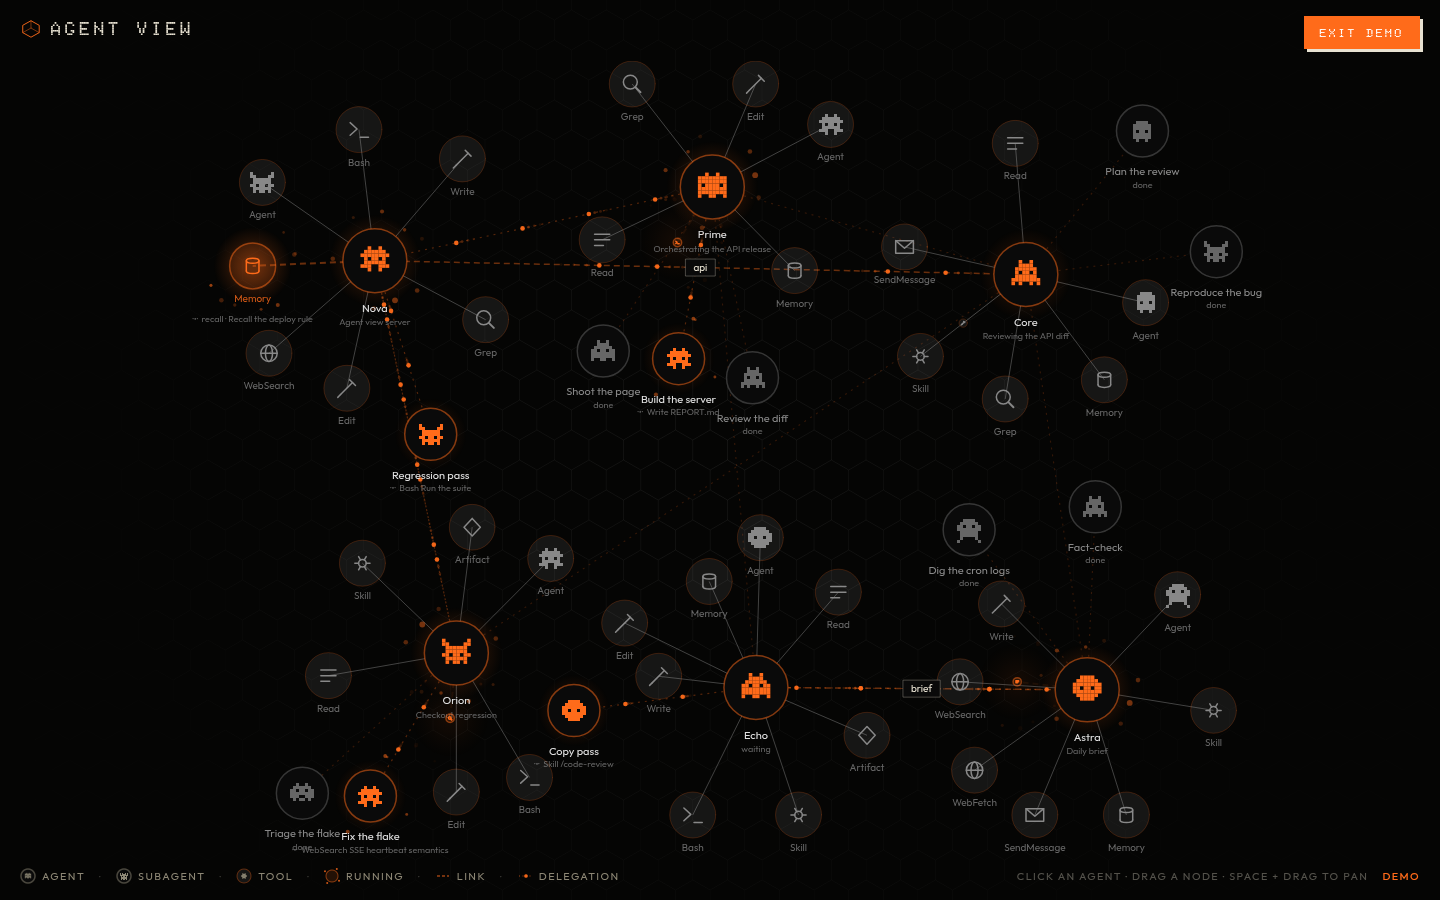
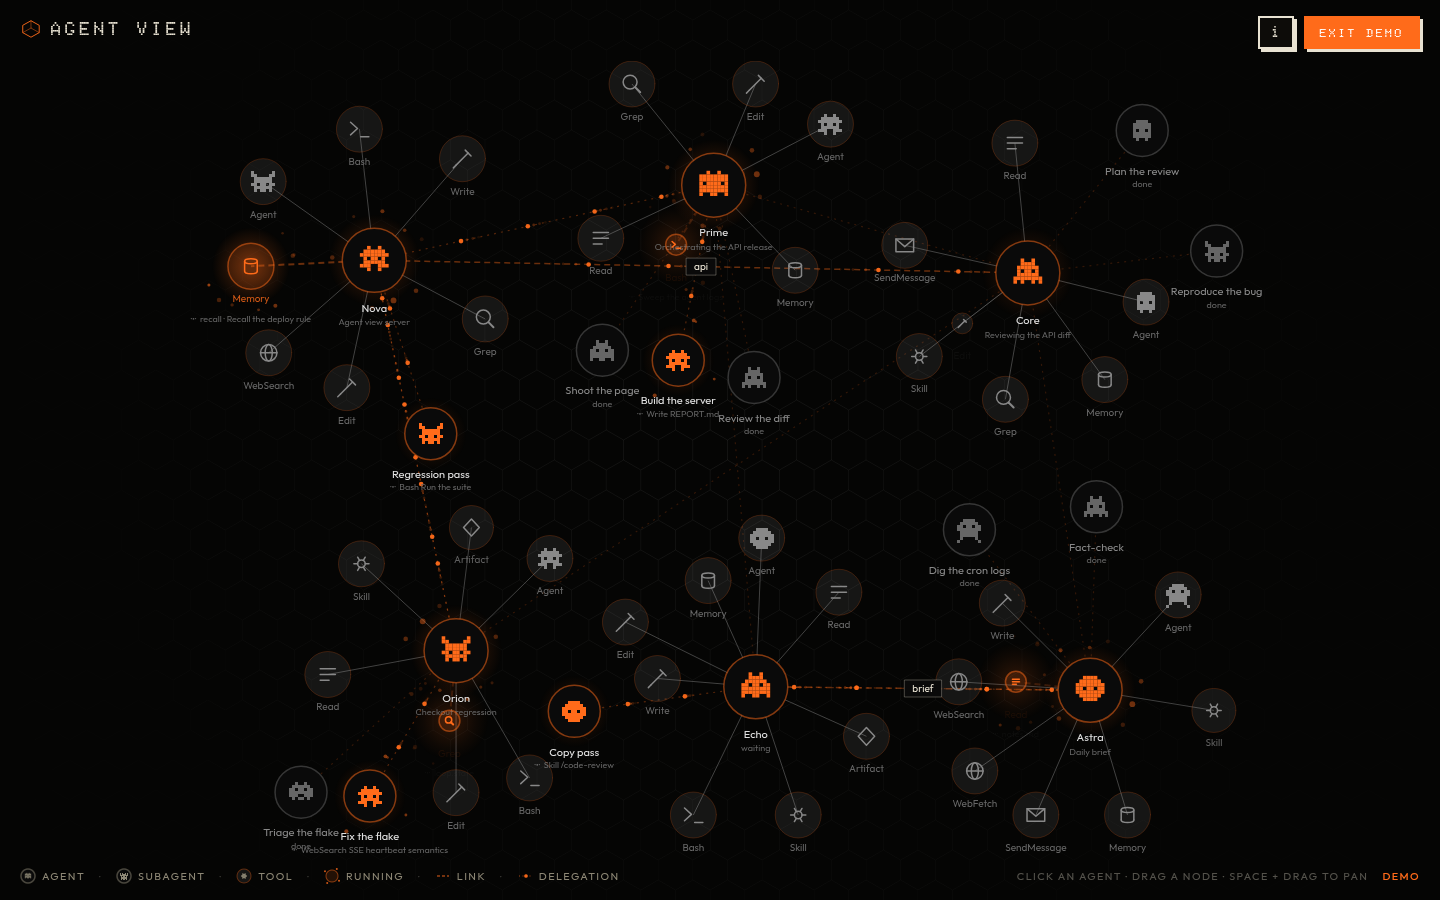
Update

diff --git a/index.html b/index.html
@@ -39,6 +39,32 @@
   #demoBtn:active { box-shadow:1px 1px 0 var(--cream); transform:translate(2px,2px); }
   #demoBtn.on { background:var(--accent); border-color:var(--accent); color:#fff; box-shadow:3px 3px 0 var(--cream); }
 
+  #infoBtn { font-family:'Doto','Outfit',monospace; font-weight:900; font-size:15px; width:36px; height:33px; padding:0;
+             border:2px solid var(--cream); background:var(--panel); color:var(--cream); border-radius:0;
+             box-shadow:3px 3px 0 var(--cream); cursor:var(--cur-hex-fill), pointer; line-height:1; }
+  #infoBtn:active { box-shadow:1px 1px 0 var(--cream); transform:translate(2px,2px); }
+  #infoBtn.on { background:var(--accent); border-color:var(--accent); color:#fff; }
+  #info { position:fixed; top:64px; right:20px; z-index:7; width:350px; max-width:calc(100vw - 32px);
+          background:var(--panel); border:1px solid rgba(var(--ink-rgb),.28); box-shadow:5px 5px 0 var(--accent);
+          padding:16px 18px 16px; display:none; font-size:12px; line-height:1.5; }
+  #info.open { display:block; }
+  #info b.t { display:block; font-family:'Doto','Outfit',monospace; font-weight:900; font-size:15px; letter-spacing:.16em; margin:0 26px 12px 0; }
+  #info .k { font-size:10px; letter-spacing:2px; text-transform:uppercase; color:var(--mute); margin:14px 0 6px; }
+  #info p { margin:0 0 8px; color:var(--cream); }
+  #info p.m { color:var(--mute); font-size:11px; margin:6px 0 0; }
+  #info pre { white-space:pre-wrap; word-break:break-word; margin:0; padding:10px; background:var(--disc);
+              border:1px solid rgba(var(--ink-rgb),.18); font:11px/1.45 ui-monospace,Menlo,monospace; color:var(--cream); }
+  #info .copy { margin-top:10px; font-family:'Doto','Outfit',monospace; font-weight:900; font-size:11px; letter-spacing:.18em;
+                padding:8px 12px 7px; border:0; border-radius:0; background:var(--accent); color:#fff;
+                box-shadow:3px 3px 0 var(--cream); cursor:var(--cur-hex-fill), pointer; line-height:1; }
+  #info .copy:active { box-shadow:1px 1px 0 var(--cream); transform:translate(2px,2px); }
+  #info .slots { display:flex; flex-wrap:wrap; gap:6px; }
+  #info .slots span { padding:3px 8px; border:1px solid rgba(var(--ink-rgb),.25); font-size:11px; color:var(--mute); }
+  #info .slots span.live { border-color:var(--accent); color:var(--accent); }
+  #info .x { position:absolute; top:8px; right:10px; border:0; background:none; color:var(--mute); font-size:18px;
+             line-height:1; padding:4px 6px; cursor:var(--cur-hex-fill), pointer; font-family:'Outfit',sans-serif; }
+  #info .x:hover { color:var(--cream); }
+
   #card { position:fixed; top:64px; right:20px; z-index:5; width:300px; max-width:calc(100vw - 40px);
           background:var(--panel); border:1px solid rgba(var(--ink-rgb),.28); box-shadow:5px 5px 0 var(--accent);
           padding:16px 18px 14px; display:none; }
@@ -114,7 +140,8 @@
   <svg class="hexlogo" viewBox="0 0 48 48" fill="none" stroke-width="2" stroke-linecap="round" stroke-linejoin="round"><path d="M24 6l18 10v16L24 42 6 32V16Z"/><path d="M24 6v16l18 10" opacity="0.5"/><path d="M24 22L6 32" opacity="0.5"/></svg>
   <b>AGENT VIEW</b>
 </div>
-<div id="top"><button id="demoBtn" type="button" aria-pressed="false">DEMO</button></div>
+<div id="top"><button id="infoBtn" type="button" aria-label="How to add an agent" aria-expanded="false">i</button><button id="demoBtn" type="button" aria-pressed="false">DEMO</button></div>
+<div id="info" role="dialog" aria-label="add an agent"></div>
 <div id="card" role="dialog" aria-label="agent"></div>
 <div id="legend"></div>
 <div id="tip"></div>
@@ -1009,7 +1036,7 @@ function fillSubCard(n) {
 }
 const TERM_PORT = 5075;
 function termUrl(id) { return location.protocol + '//' + location.hostname + ':' + TERM_PORT + '/?agent=' + encodeURIComponent(id); }
-function openCard(a) { CARD = a.id; fillCard(a); card.classList.add('open'); }
+function openCard(a) { setInfo(false); CARD = a.id; fillCard(a); card.classList.add('open'); }
 function closeCard() { CARD = null; card.classList.remove('open'); }
 addEventListener('keydown', ev => { if (ev.key === 'Escape' && CARD) closeCard(); });
 
@@ -1195,6 +1222,61 @@ function setDemo(on) {
   }
 }
 demoBtn.addEventListener('click', () => setDemo(!DEMO));
+
+const infoBtn = document.getElementById('infoBtn');
+const info = document.getElementById('info');
+let infoSlots = null, infoTimer = 0;
+function el(tag, cls, text) { const e = document.createElement(tag); if (cls) e.className = cls; if (text != null) e.textContent = text; return e; }
+function infoPrompt() {
+  return 'Add yourself to Agent View. Run: curl -s ' + location.origin + '/INSTALL-FOR-AGENTS.md' +
+         ' and follow the "Add yourself" section.';
+}
+function copyFallback(t) {
+  const ta = el('textarea'); ta.value = t; ta.style.position = 'fixed'; ta.style.opacity = '0';
+  document.body.appendChild(ta); ta.select();
+  let ok = false; try { ok = document.execCommand('copy'); } catch { ok = false; }
+  ta.remove(); return ok;
+}
+function copyText(t, btn) {
+  const done = ok => { btn.textContent = ok ? 'COPIED' : 'SELECT THE TEXT ABOVE'; setTimeout(() => { btn.textContent = 'COPY'; }, 1800); };
+  if (navigator.clipboard && window.isSecureContext) navigator.clipboard.writeText(t).then(() => done(true), () => done(copyFallback(t)));
+  else done(copyFallback(t));
+}
+function fillSlots() {
+  if (!infoSlots) return;
+  const live = new Set(((LIVE_SNAP && LIVE_SNAP.agents) || []).filter(a => a.status !== 'idle').map(a => a.id));
+  infoSlots.textContent = '';
+  AG_ORDER.forEach(id => infoSlots.appendChild(el('span', live.has(id) ? 'live' : '', id)));
+}
+function fillInfo() {
+  info.textContent = '';
+  const x = el('button', 'x', '×'); x.type = 'button'; x.setAttribute('aria-label', 'close');
+  x.addEventListener('click', () => setInfo(false));
+  info.appendChild(x);
+  info.appendChild(el('b', 't', 'ADD AN AGENT'));
+  info.appendChild(el('p', '', 'Paste this into the coding agent you want on the map:'));
+  const pre = el('pre', '', infoPrompt());
+  info.appendChild(pre);
+  const cp = el('button', 'copy', 'COPY'); cp.type = 'button';
+  cp.addEventListener('click', () => copyText(pre.textContent, cp));
+  info.appendChild(cp);
+  info.appendChild(el('div', 'k', 'What happens'));
+  info.appendChild(el('p', 'm', 'It reads the guide, takes a free slot and runs from agents/<slot>. It shows up here within a few seconds.'));
+  info.appendChild(el('div', 'k', 'Slots'));
+  infoSlots = el('div', 'slots');
+  info.appendChild(infoSlots);
+  info.appendChild(el('p', 'm', 'Orange = on the map right now.'));
+  fillSlots();
+}
+function setInfo(on) {
+  info.classList.toggle('open', on);
+  infoBtn.classList.toggle('on', on);
+  infoBtn.setAttribute('aria-expanded', on ? 'true' : 'false');
+  clearInterval(infoTimer); infoTimer = 0;
+  if (on) { closeCard(); fillInfo(); infoTimer = setInterval(fillSlots, 2000); }
+}
+infoBtn.addEventListener('click', () => setInfo(!info.classList.contains('open')));
+addEventListener('keydown', ev => { if (ev.key === 'Escape' && info.classList.contains('open')) setInfo(false); });
 
 (function buildLegend() {
   const lg = document.getElementById('legend');

diff --git a/server.js b/server.js
@@ -20,6 +20,7 @@ const CONSOLE_URL = process.env.CONSOLE_URL || 'http://127.0.0.1:5050/api/agent-
 const PROJECTS_ROOT = (process.env.PROJECTS_ROOT || path.join(os.homedir(), 'projects')).replace(/\/+$/, '');
 const BRAIN_POOL = (process.env.BRAIN_POOL || path.join(os.homedir(), '.agent-memory')).replace(/\/+$/, '');
 const PAGE = path.join(__dirname, 'index.html');
+const GUIDE = path.join(__dirname, 'INSTALL-FOR-AGENTS.md');
 
 const AGENTS = [
   { id: 'prime', name: 'Prime' },
@@ -954,6 +955,18 @@ const server = http.createServer(async (req, res) => {
         'Cache-Control': 'no-store',
         'X-Content-Type-Options': 'nosniff',
         'Content-Security-Policy': CSP,
+        'Content-Length': body.length,
+      });
+      return res.end(req.method === 'HEAD' ? undefined : body);
+    }
+
+    if (pathname === '/INSTALL-FOR-AGENTS.md') {
+      let body;
+      try { body = fs.readFileSync(GUIDE); } catch { return sendText(req, res, 404, 'INSTALL-FOR-AGENTS.md is missing next to server.js'); }
+      res.writeHead(200, {
+        'Content-Type': 'text/markdown; charset=utf-8',
+        'Cache-Control': 'no-store',
+        'X-Content-Type-Options': 'nosniff',
         'Content-Length': body.length,
       });
       return res.end(req.method === 'HEAD' ? undefined : body);

diff --git a/INSTALL-FOR-AGENTS.md b/INSTALL-FOR-AGENTS.md
@@ -1,4 +1,33 @@
-# Installing Agent View — guide for coding agents
+# Agent View — guide for coding agents
+
+- **Agent View is already running, and you were sent here to add yourself?** Do only the "Add yourself" section.
+- **Installing Agent View from scratch?** Skip to step 1.
+
+## Add yourself
+
+`<host>` below is the address you fetched this guide from, for example `http://127.0.0.1:5076`.
+
+1. **Pick a free slot.** The six slots are `prime`, `nova`, `core`, `orion`, `echo` and `astra`. See which ones are taken:
+   ```bash
+   ls ~/.claude/projects | grep -e '-agents-'
+   ```
+   A slot is taken if a folder ends in `-agents-<id>`. If your user named a slot for you, use that one.
+2. **Check where you started.** Run `pwd`. If it already ends in `/agents/<a free id>`, you are already on the map. Go to step 4.
+3. **Get a session in the slot's folder.** Your slot comes from the folder your Claude Code session **started** in, and a running session can't move. So create the folder:
+   ```bash
+   mkdir -p ~/agents/<id>
+   ```
+   Then tell your user, word for word: *"To put me on Agent View, start me there: `cd ~/agents/<id> && claude`"*. In Agent Terminal, the same thing is a named agent with `id` set to `<id>` and `cwd` set to `~/agents/<id>`. Carry on in that new session.
+4. **Verify.** Make one tool call (a `pwd` is enough), then run:
+   ```bash
+   curl -s <host>/api/agents
+   ```
+   Find your `id`. Its `status` must be `active`, and its `tools` must list the call you just made. On the page, your node appears, and your slot turns orange in the **i** panel.
+5. **Tell your user** which slot you took.
+
+---
+
+# Installing Agent View from scratch
 
 Follow these steps in order. Don't report success until step 5 passes.
 

diff --git a/README.md b/README.md
@@ -40,6 +40,10 @@ claude
 
 Claude Code saves that session's transcript under `~/.claude/projects/-…-agents-nova/`, and Agent View picks it up within a few seconds.
 
+**The easy way:** click **i** (top right), press **COPY**, and paste the line into the agent you want to add. It fetches the guide from the running Agent View, takes a free slot, and appears on the map. Free slots are grey, and slots on the map are orange.
+
+![The i panel: a ready-to-paste line for your agent, and which of the six slots are free](docs/add-agent.png)
+
 **Having a coding agent install this?** Tell it: *"Read INSTALL-FOR-AGENTS.md and install Agent View."*
 
 ## Settings
@@ -66,6 +70,7 @@ PORT=5076 TRANSCRIPTS_DIR="$HOME/.claude/projects" node server.js
 | `/api/agents` | A JSON snapshot of every agent |
 | `/api/stream` | Server-sent events, sent on every change |
 | `/api/health` | `{ ok, transcripts, console, … }` |
+| `/INSTALL-FOR-AGENTS.md` | The agent guide, which the **i** panel's copied line fetches |
 
 ## Privacy
 
